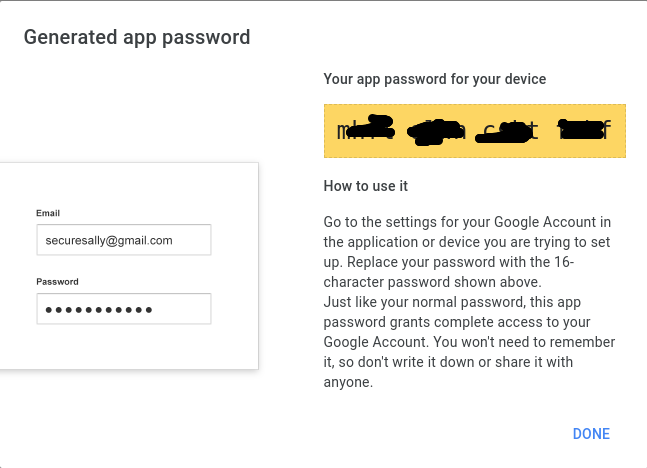
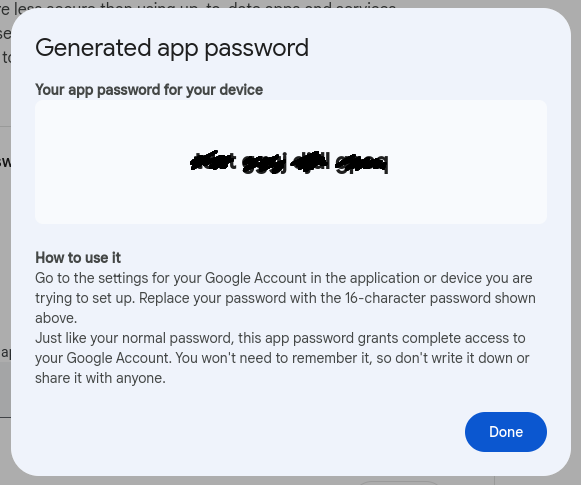
Update Gmail 2FA instructions

diff --git a/_posts/2021-02-12-synchronize-your-2fa-gmail-with-mbsync.md b/_posts/2021-02-12-synchronize-your-2fa-gmail-with-mbsync.md
@@ -3,7 +3,7 @@ layout: post
 title: Synchronize your 2FA Gmail with mbsync
 lang: en
 tags: fedora emacs mbsync email gmail howto
-updated:
+updated: 2024-01-21
 ---
 
 In comparison to graphical email applications, configuring the command-line
@@ -224,8 +224,9 @@ Verification.
   </a>
 </div>
 
-Now we need to generate an [App Password][app-password]. Click on "App
-passwords" and you will be redirected to this.
+Now we need to generate an [App Password][app-password]. Click on
+"2-Step Verification", then at the bottom of the page, you will find
+"App passwords" section. When opening it, you will see this.
 
 <div class="text-center img-row row">
   <a href="/files/img/gmail-app-passwords.png">
@@ -234,8 +235,7 @@ passwords" and you will be redirected to this.
   </a>
 </div>
 
-To create a new password click on "Select app" and proceed with "Other
-(Custom name)" option. Use whatever name you want.
+Use whatever app name you want and click "Create".
 
 
 <div class="text-center img-row row">
